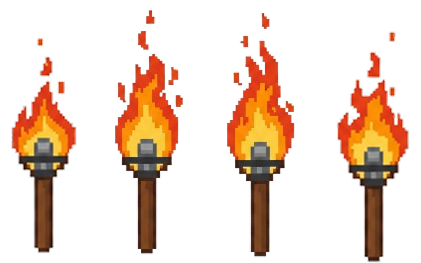
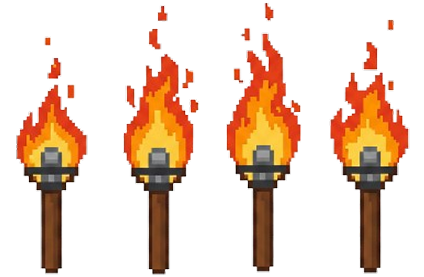
Implemeted Hompage and refactored project structure

diff --git a/dungeon/register.html b/dungeon/register.html
@@ -4,18 +4,52 @@
   <meta charset="UTF-8" />
     <link rel="icon" type="image/png" href="/Strombyte.png" />
     <meta name="viewport" content="width=device-width, initial-scale=1.0" />
+    <script src="https://cdn.tailwindcss.com"></script>
+    <script src="/src/pages/register.ts"></script>
     <title>Registrazione</title>
-    <link rel="stylesheet" href="./src/style.css" type="text/css">
+    <link rel="stylesheet" href="./src/styles/register.css" type="text/css">
     <link href="https://fonts.googleapis.com/css2?family=Press+Start+2P&display=swap" rel="stylesheet">
 </head>
 <body>
-  <div id="login-box">
-    <h2>Registrazione</h2>
-    <input type="text" id="new-username" placeholder="Username" />
-    <input type="password" id="new-password" placeholder="Password" />
-    <button id="login-btn">Registrati</button>
+  <div id="register-box">
+        <h2>Registrazione</h2>
+        <input type="text" id="new-username" placeholder="Username" />
+        <input type="password" id="new-password" placeholder="Password" />
+        <div class="flex flex-wrap justify-center space-x-4 mt-6 mb-4" > 
+          <div id="SelectedCavaliere" class="bg-transparent border rounded-lg p-2 mb-4 
+                      flex flex-col items-center justify-start 
+                      w-full sm:w-1/2 md:w-1/4 lg:w-1/4 max-w-[150px]">
+              
+              <img class="w-full h-auto max-h-[128px]" src="/assets/Cavaliere.png" alt="Cavaliere Blu"/>
+              
+              <span class="block font-semibold text-xl text-white mt-2">Cavaliere</span>
+          </div>
+          
+          <div id="SelectedMago" class="bg-transparent border rounded-lg p-2 mb-4 
+                      flex flex-col items-center justify-start 
+                      w-full sm:w-1/2 md:w-1/4 lg:w-1/4 max-w-[150px]">
+              
+              <img class="w-full h-auto max-h-[128px]" src="/assets/Mago.png" alt="Mago Rosso"/>
+              <span class="block font-semibold text-xl text-white mt-2">Mago</span>
+          </div>
+          
+          <div id="SelectedArciere" class="bg-transparent border rounded-lg p-2 mb-4 
+                      flex flex-col items-center justify-start 
+                      w-full sm:w-1/2 md:w-1/4 lg:w-1/4 max-w-[150px]">
+              
+              <img class="w-full h-auto max-h-[128px]" src="/assets/Aricere.png" alt="Arciere Verde"/>
+              <span class="block font-semibold text-xl text-white mt-2">Arciere</span>
+          </div>
+          
+          <div id="SelectedLadro" class="bg-transparent border rounded-lg p-2 mb-4 
+                      flex flex-col items-center justify-start 
+                      w-full sm:w-1/2 md:w-1/4 lg:w-1/4 max-w-[150px]">
+              
+              <img class="w-full h-auto max-h-[128px]" src="/assets/Ladro.png" alt="Ladro Nero"/>
+              <span class="block font-semibold text-xl text-white mt-2">Ladro</span>
+          </div> 
+        </div>
+        <button id="register-btn">Registrati</button>
   </div>
-
-  <script src="./src/register.js"></script>
 </body>
 </html>

diff --git a/dungeon/src/styles/register.css b/dungeon/src/styles/register.css
@@ -1,0 +1,85 @@
+body {
+    background-image: url('../public/dungeon-wall.png');
+    display: flex;
+    justify-content: center;
+    align-items: center;
+    min-height: 100vh;
+    margin: 0;
+    font-family: 'Press Start 2P';
+    color: #e0e0e0;
+    overflow: hidden;
+}
+
+#register-box {
+    position: relative;
+    z-index: 10;
+    padding: 40px 50px;
+    background: rgba(10, 10, 10, 0.9);
+    border: 3px solid #4a4a4a;
+    border-radius: 10px;
+    box-shadow: 0 0 30px rgba(0, 0, 0, 0.7);
+    text-align: center;
+    width: fit-content;
+    min-width: 350px;
+    max-width: 90%;
+    box-sizing: border-box;
+    margin-left: auto;
+    margin-right: auto;
+}
+
+h2 {
+    color: #ffd700;
+    margin-bottom: 30px;
+    font-size: 2.2em;
+    text-shadow: 2px 2px 4px rgba(0, 0, 0, 0.5);
+}
+
+input[type="text"],
+input[type="password"] {
+    width: calc(100% - 20px);
+    padding: 15px;
+    margin-bottom: 20px;
+    background: #2a2a2a;
+    border: 2px solid #555;
+    border-radius: 5px;
+    color: #e0e0e0;
+    font-size: 1.1em;
+    outline: none;
+}
+
+input[type="text"]::placeholder,
+input[type="password"]::placeholder {
+    color: #888;
+}
+
+input[type="text"]:focus,
+input[type="password"]:focus {
+    border-color: #ffd700;
+    box-shadow: 0 0 8px rgba(255, 215, 0, 0.4);
+}
+
+button#register-btn {
+    width: calc(100% - 20px);
+    padding: 15px;
+    background: #e6ed09;
+    border: none;
+    border-radius: 5px;
+    color: white;
+    font-size: 1.2em;
+    font-weight: bold;
+    cursor: pointer;
+    transition: background-color 0.3s ease;
+    margin-top: 10px;
+}
+
+button#register-btn:hover {
+    background-color: #0056b3;
+}
+
+canvas {
+    position: fixed;
+    top: 0;
+    left: 0;
+    z-index: 1;       
+    pointer-events: none; 
+}

diff --git a/dungeon/src/styles/homepage.css b/dungeon/src/styles/homepage.css
@@ -1,0 +1,29 @@
+body {
+  margin: 0;
+  min-height: 100vh;
+
+  background-repeat: no-repeat, no-repeat;
+  background-position: center, center;
+  background-size: contain, cover;
+  overflow: hidden;
+
+  background-image:
+    url("../../public/homepagescenes/homescene1.png"),
+    url("../../public/dungeon-wall.png");
+
+  animation: bg-cycle 36s infinite linear;
+}
+
+@keyframes bg-cycle {
+  0%   { background-image: url("../../public/homepagescenes/homescene1.png"), url("../../public/dungeon-wall.png");}
+  10%  { background-image: url("../../public/homepagescenes/homescene2.png"), url("../../public/dungeon-wall.png"); }
+  20%  { background-image: url("../../public/homepagescenes/homescene3.png"), url("../../public/dungeon-wall.png"); }
+  30%  { background-image: url("../../public/homepagescenes/homescene4.png"), url("../../public/dungeon-wall.png"); }
+  40%  { background-image: url("../../public/homepagescenes/homescene5.png"), url("../../public/dungeon-wall.png"); }
+  50%  { background-image: url("../../public/homepagescenes/homescene6.png"), url("../../public/dungeon-wall.png"); }
+  60%  { background-image: url("../../public/homepagescenes/homescene5.png"), url("../../public/dungeon-wall.png"); }
+  70%  { background-image: url("../../public/homepagescenes/homescene4.png"), url("../../public/dungeon-wall.png");}
+  80%  { background-image: url("../../public/homepagescenes/homescene3.png"), url("../../public/dungeon-wall.png"); }
+  90%  { background-image: url("../../public/homepagescenes/homescene2.png"), url("../../public/dungeon-wall.png"); }
+  100% { background-image: url("../../public/homepagescenes/homescene1.png"), url("../../public/dungeon-wall.png"); }
+}

diff --git a/dungeon/src/pages/register.ts b/dungeon/src/pages/register.ts
@@ -1,6 +1,7 @@
 const registerBtn = document.getElementById("register-btn") as HTMLButtonElement;
 const newUsername = document.getElementById("new-username") as HTMLInputElement;
 const newPassword = document.getElementById("new-password") as HTMLInputElement;
+const cavaliereDiv = document.getElementById("SelectedCavaliere") as HTMLDivElement;
 
 registerBtn.addEventListener("click", () => {
   const username = newUsername.value.trim();
@@ -16,16 +17,18 @@ registerBtn.addEventListener("click", () => {
   window.location.href = "login.html";
 });
 
+cavaliereDiv.addEventListener("click", () => {
+  alert("Cavaliere selezionato!");
+});
 import Phaser from "phaser";
-import { Torch } from "./scenes/torch";
+import { KnightAttack } from "../scenes/knightattack";
 
 const config = {
   type: Phaser.AUTO,
-  width: window.innerWidth,
-  height: window.innerHeight,
-  transparent: true,
-  scene: Torch,
-  backgroundColor: "rgba(0,0,0,0)"
+  width:800,
+  height:600,
+  scene: [KnightAttack],
+  backgroundColor: "rgba(255, 255, 255, 0)"
 };
 
 new Phaser.Game(config);

diff --git a/dungeon/login.html b/dungeon/login.html
@@ -4,19 +4,20 @@
     <meta charset="UTF-8" />
     <link rel="icon" type="image/png" href="/Strombyte.png" />
     <meta name="viewport" content="width=device-width, initial-scale=1.0" />
+    <script src="https://cdn.tailwindcss.com"></script>
     <title>Login Page Dungeon</title>
-    <link rel="stylesheet" href="./src/style.css" type="text/css">
+    <link rel="stylesheet" href="./src/styles/login.css" type="text/css">
     <link href="https://fonts.googleapis.com/css2?family=Press+Start+2P&display=swap" rel="stylesheet">
 </head>
 <body>
     <div id="login-box">
     <h2>Login</h2>
-    <input type="text" placeholder="Username">
-    <input type="password" placeholder="Password">
+    <input type="text" id="username" placeholder="Username">
+    <input type="password" id="password" placeholder="Password">
     <button id="login-btn">Login</button>
     <span id="register-link">Registrati</span>
 </div>
 
-    <script type="module" src="./src/login.ts"></script>
+    <script type="module" src="/src/pages/login.ts"></script>
 </body>
 </html>

diff --git a/dungeon/src/scenes/knightattack.ts b/dungeon/src/scenes/knightattack.ts
@@ -1,26 +1,27 @@
-export class Knight extends Phaser.Scene
+import Phaser from "phaser";
+export class KnightAttack extends Phaser.Scene
 {
     private knight!: Phaser.GameObjects.Sprite;
 
     constructor ()
     {
-        super("Knight");
+        super("KnightAttack");
     }
 
     preload ()
     {
-        this.load.spritesheet("kng", "/assets/KngWlak.png", {
-            frameWidth: 81,
-            frameHeight: 130
+        this.load.spritesheet("kng", "/assets/Knight_attack.png", {
+            frameWidth: 155,
+            frameHeight: 158
         });
     }
-
+    
     create ()
     {
         this.anims.create({
             key: "walk",
-            frames: this.anims.generateFrameNumbers("kng", { start: 0, end:17 }),
-            frameRate: 9,
+            frames: this.anims.generateFrameNumbers("kng", { start: 0, end: 5}),
+            frameRate: 3,
             repeat: -1
         });
 

diff --git a/dungeon/src/pages/login.ts b/dungeon/src/pages/login.ts
@@ -13,15 +13,16 @@ loginBtn.addEventListener("click", () => {
   }
 
   console.log(`Login effettuato da ${username}`);
-  window.location.href = "index.html";
+  window.location.href = "homepage.html";
 });
 
 registerLink.addEventListener("click", () => {
   window.location.href = "register.html";
 });
 
+
 import Phaser from "phaser";
-import { Torch } from "./scenes/torch";
+import { Torch } from "../scenes/torch";
 
 const config = {
   type: Phaser.AUTO,

diff --git a/dungeon/homepage.html b/dungeon/homepage.html
@@ -5,9 +5,9 @@
     <link rel="icon" type="image/png" href="/Strombyte.png" />
     <meta name="viewport" content="width=device-width, initial-scale=1.0" />
     <title>dungeon-game</title>
+    <link rel="stylesheet" href="./src/styles/homepage.css" type="text/css">
   </head>
   <body>
-    <div id="app"></div>
-    <script type="module" src="/src/main.ts"></script>
+    <script type="module" src="/src/pages/main.ts"></script>
   </body>
 </html>

diff --git a/dungeon/src/scenes/torch.ts b/dungeon/src/scenes/torch.ts
@@ -11,8 +11,8 @@ export class Torch extends Phaser.Scene
     preload ()
     {
         this.load.spritesheet("sheet", "/assets/torch.png", {
-            frameWidth: 110,
-            frameHeight: 250
+            frameWidth: 106,
+            frameHeight: 277
         });
     }
 

diff --git a/dungeon/src/pages/main.ts b/dungeon/src/pages/main.ts
@@ -1,0 +1,12 @@
+import Phaser from "phaser";
+import { Torch } from "../scenes/torch";
+
+const config = {
+  type: Phaser.AUTO,
+  width: window.innerWidth,
+  height: window.innerHeight,
+  transparent: true,
+  scene: Torch,
+};
+
+new Phaser.Game(config);
